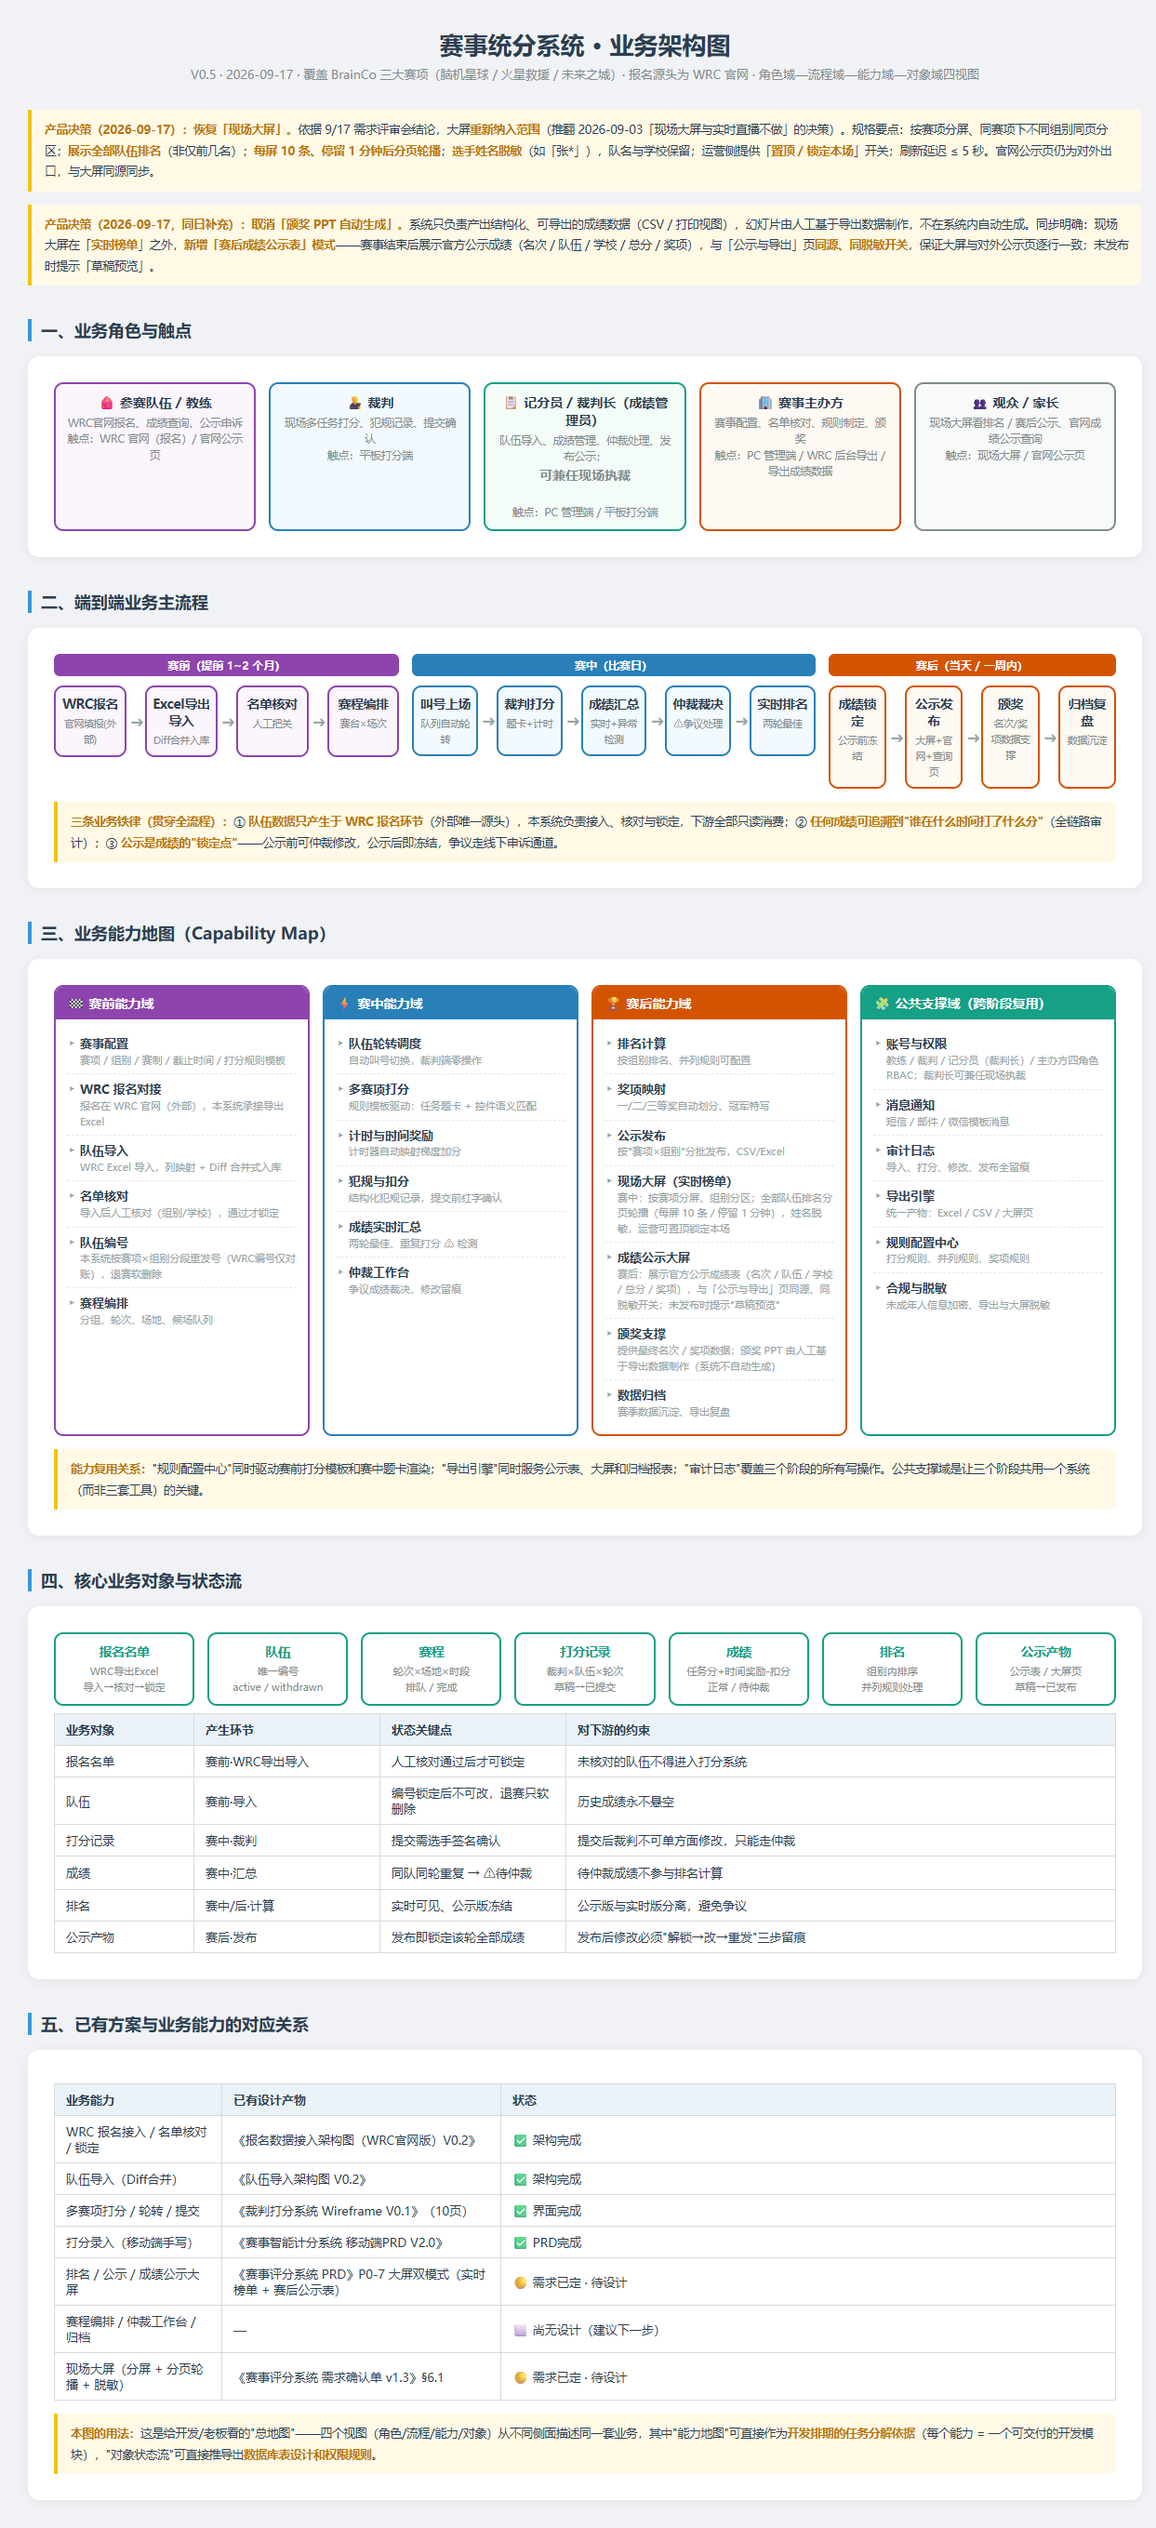
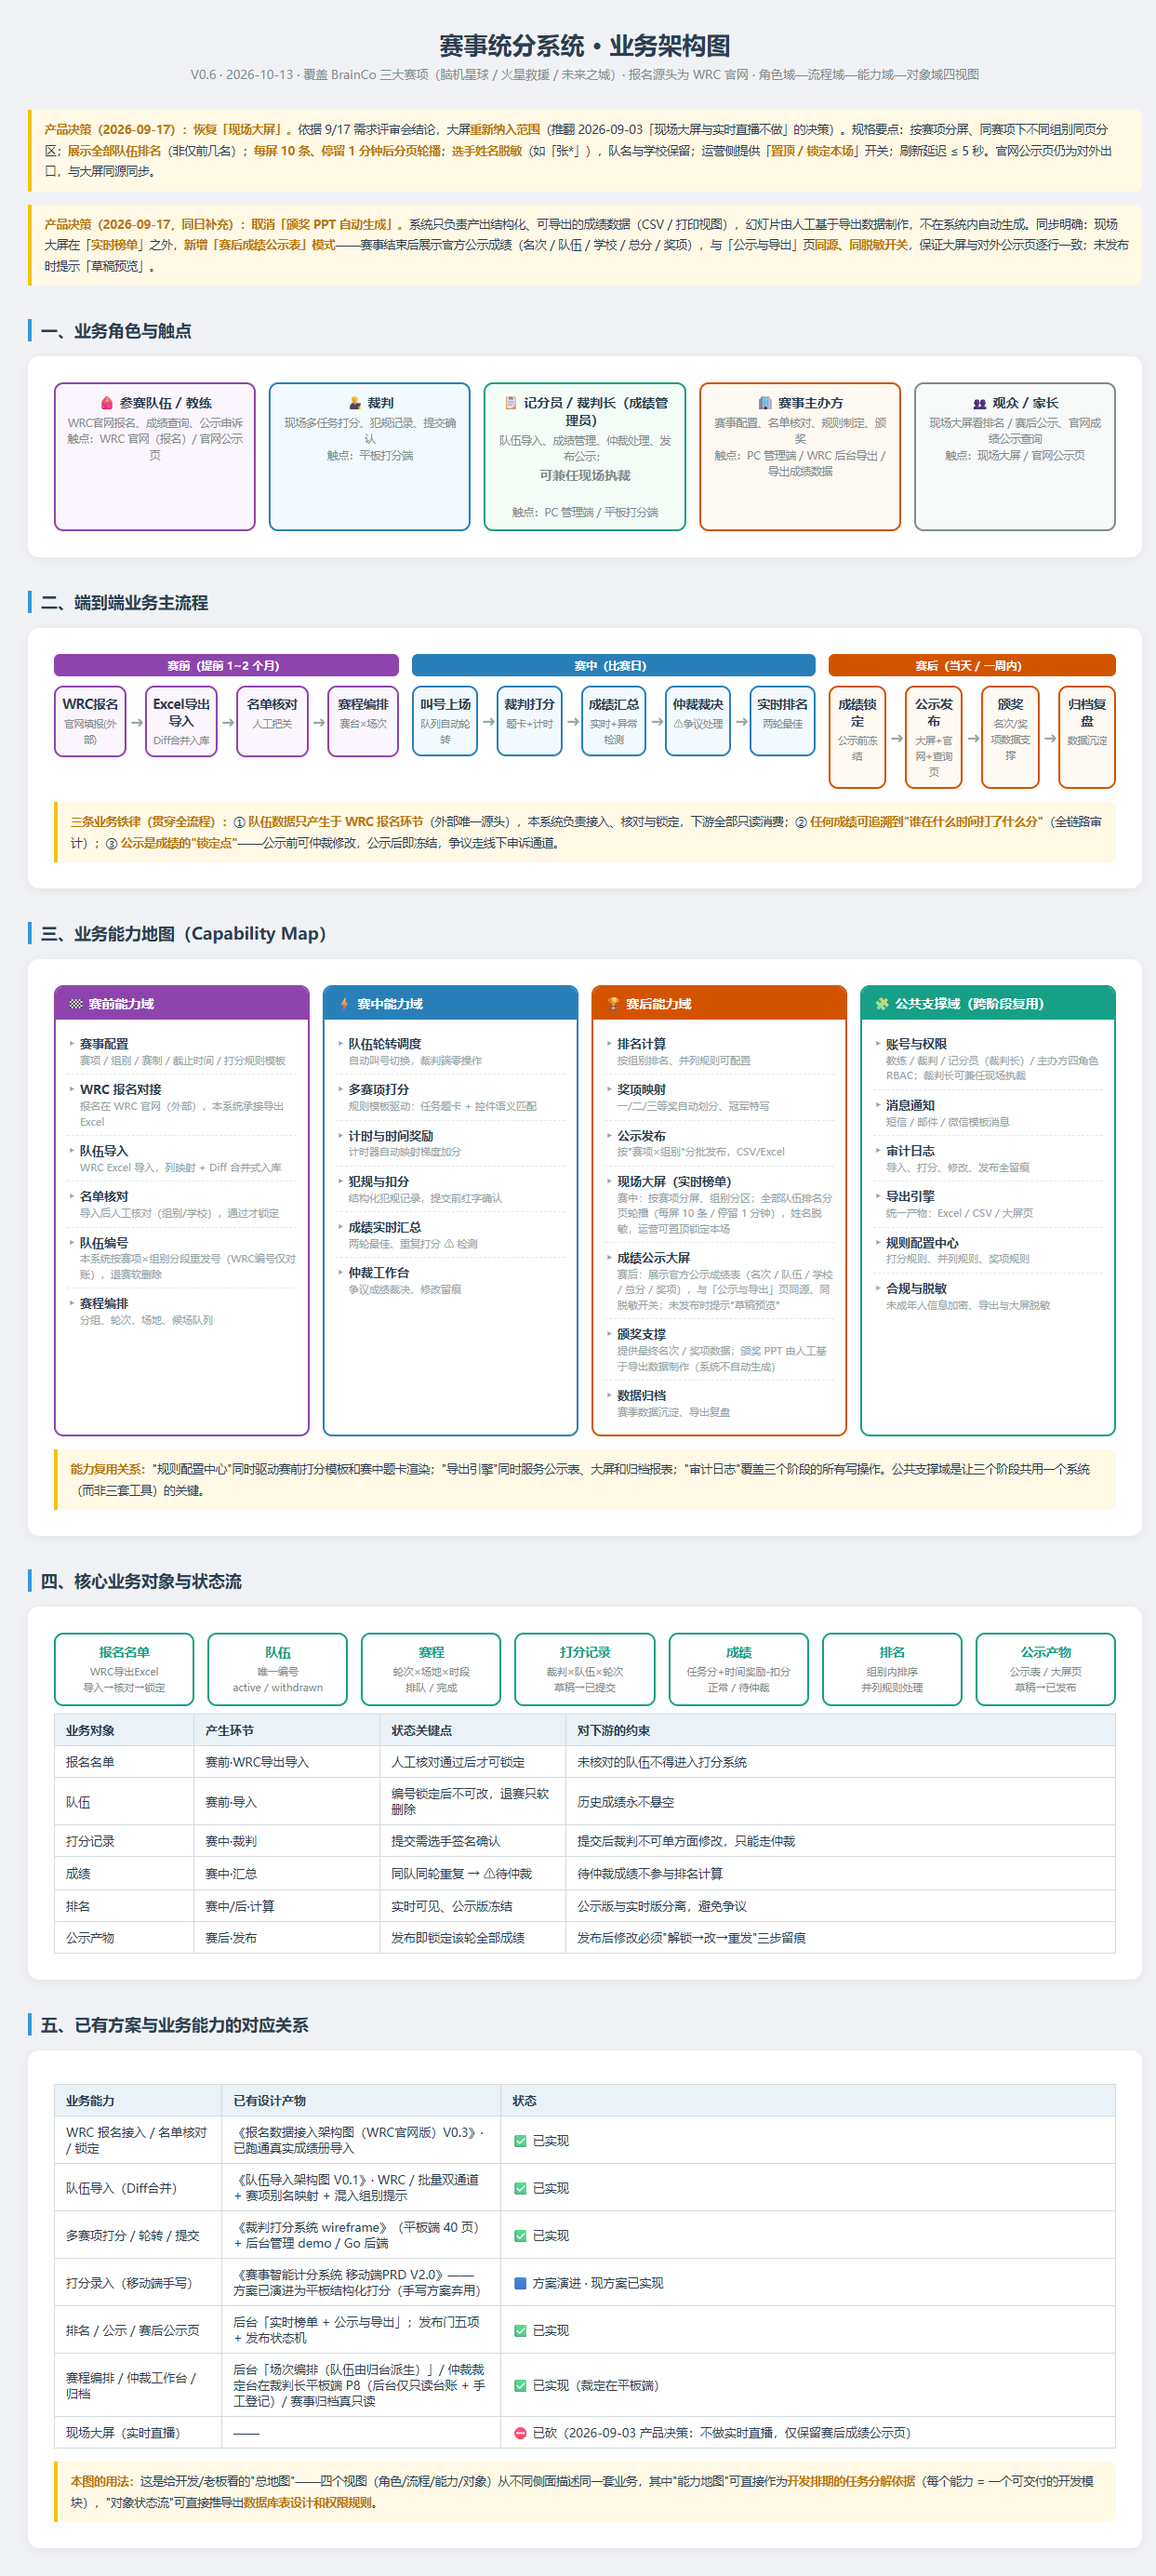
docs(业务架构图): V0.6——阶段对照表对齐 2026-10-13 代码现状
- 赛程编排/仲裁/归档 ⬜尚无设计 → ✅已实现（裁定台在裁判长平板端 P8，后台只读台账+手工登记）
- 大屏实时直播 → ⛔已砍（09-03 决策）；手写打分 → 方案演进（平板结构化打分已实现）
- 产物名对齐实际版本（报名接入 V0.3 / 队伍导入 V0.1 / 平板 wireframe 40 页）；PNG 重截

diff --git a/赛事统分系统_业务架构图.html b/赛事统分系统_业务架构图.html
@@ -2,7 +2,7 @@
 <html lang="zh-CN">
 <head>
 <meta charset="UTF-8">
-<title>赛事统分系统 · 业务架构图 V0.5</title>
+<title>赛事统分系统 · 业务架构图 V0.6</title>
 <style>
   * { margin:0; padding:0; box-sizing:border-box; }
   body { font-family:"Microsoft YaHei","PingFang SC",sans-serif; background:#f0f2f5; color:#2c3e50; padding:30px; }
@@ -70,7 +70,7 @@
 <body>
 
 <h1>赛事统分系统 · 业务架构图</h1>
-<p class="sub">V0.5 · 2026-09-17 · 覆盖 BrainCo 三大赛项（脑机星球 / 火星救援 / 未来之城）· 报名源头为 WRC 官网 · 角色域—流程域—能力域—对象域四视图</p>
+<p class="sub">V0.6 · 2026-10-13 · 覆盖 BrainCo 三大赛项（脑机星球 / 火星救援 / 未来之城）· 报名源头为 WRC 官网 · 角色域—流程域—能力域—对象域四视图</p>
 <div class="note" style="margin-top:14px;">
   <b>产品决策（2026-09-17）：恢复「现场大屏」。</b>依据 9/17 需求评审会结论，大屏<b>重新纳入范围</b>（推翻 2026-09-03「现场大屏与实时直播不做」的决策）。规格要点：按赛项分屏、同赛项下不同组别同页分区；<b>展示全部队伍排名</b>（非仅前几名）；<b>每屏 10 条、停留 1 分钟后分页轮播</b>；<b>选手姓名脱敏</b>（如「张*」），队名与学校保留；运营侧提供「<b>置顶 / 锁定本场</b>」开关；刷新延迟 ≤ 5 秒。官网公示页仍为对外出口，与大屏同源同步。
 </div>
@@ -211,13 +211,13 @@
 <div class="diagram">
   <table class="branch">
     <tr><th style="width:180px">业务能力</th><th style="width:300px">已有设计产物</th><th>状态</th></tr>
-    <tr><td>WRC 报名接入 / 名单核对 / 锁定</td><td>《报名数据接入架构图（WRC官网版）V0.2》</td><td>✅ 架构完成</td></tr>
-    <tr><td>队伍导入（Diff合并）</td><td>《队伍导入架构图 V0.2》</td><td>✅ 架构完成</td></tr>
-    <tr><td>多赛项打分 / 轮转 / 提交</td><td>《裁判打分系统 Wireframe V0.1》（10页）</td><td>✅ 界面完成</td></tr>
-    <tr><td>打分录入（移动端手写）</td><td>《赛事智能计分系统 移动端PRD V2.0》</td><td>✅ PRD完成</td></tr>
-    <tr><td>排名 / 公示 / 成绩公示大屏</td><td>《赛事评分系统 PRD》P0-7 大屏双模式（实时榜单 + 赛后公示表）</td><td>🟡 需求已定 · 待设计</td></tr>
-    <tr><td>赛程编排 / 仲裁工作台 / 归档</td><td>—</td><td>⬜ 尚无设计（建议下一步）</td></tr>
-    <tr><td>现场大屏（分屏 + 分页轮播 + 脱敏）</td><td>《赛事评分系统 需求确认单 v1.3》§6.1</td><td>🟡 需求已定 · 待设计</td></tr>
+    <tr><td>WRC 报名接入 / 名单核对 / 锁定</td><td>《报名数据接入架构图（WRC官网版）V0.3》· 已跑通真实成绩册导入</td><td>✅ 已实现</td></tr>
+    <tr><td>队伍导入（Diff合并）</td><td>《队伍导入架构图 V0.1》· WRC / 批量双通道 + 赛项别名映射 + 混入组别提示</td><td>✅ 已实现</td></tr>
+    <tr><td>多赛项打分 / 轮转 / 提交</td><td>《裁判打分系统 wireframe》（平板端 40 页）+ 后台管理 demo / Go 后端</td><td>✅ 已实现</td></tr>
+    <tr><td>打分录入（移动端手写）</td><td>《赛事智能计分系统 移动端PRD V2.0》—— 方案已演进为平板结构化打分（手写方案弃用）</td><td>🟦 方案演进 · 现方案已实现</td></tr>
+    <tr><td>排名 / 公示 / 赛后公示页</td><td>后台「实时榜单 + 公示与导出」；发布门五项 + 发布状态机</td><td>✅ 已实现</td></tr>
+    <tr><td>赛程编排 / 仲裁工作台 / 归档</td><td>后台「场次编排（队伍由归台派生）」/ 仲裁裁定台在裁判长平板端 P8（后台仅只读台账 + 手工登记）/ 赛事归档真只读</td><td>✅ 已实现（裁定在平板端）</td></tr>
+    <tr><td>现场大屏（实时直播）</td><td>——</td><td>⛔ 已砍（2026-09-03 产品决策：不做实时直播，仅保留赛后成绩公示页）</td></tr>
   </table>
   <div class="note">
     <b>本图的用法：</b>这是给开发/老板看的"总地图"——四个视图（角色/流程/能力/对象）从不同侧面描述同一套业务，其中"能力地图"可直接作为<b>开发排期的任务分解依据</b>（每个能力 = 一个可交付的开发模块），"对象状态流"可直接推导出<b>数据库表设计和权限规则</b>。
